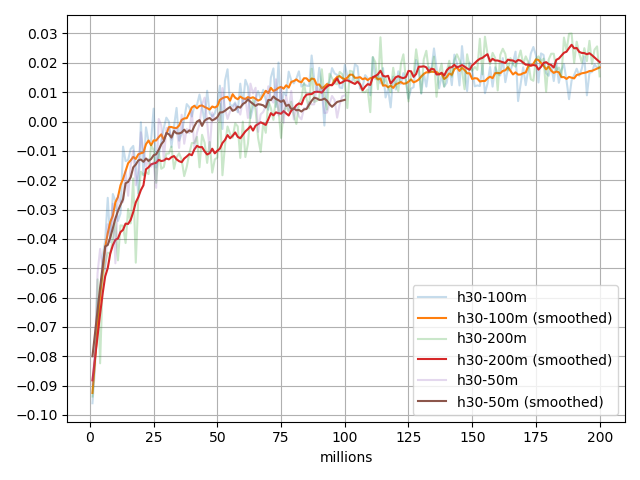
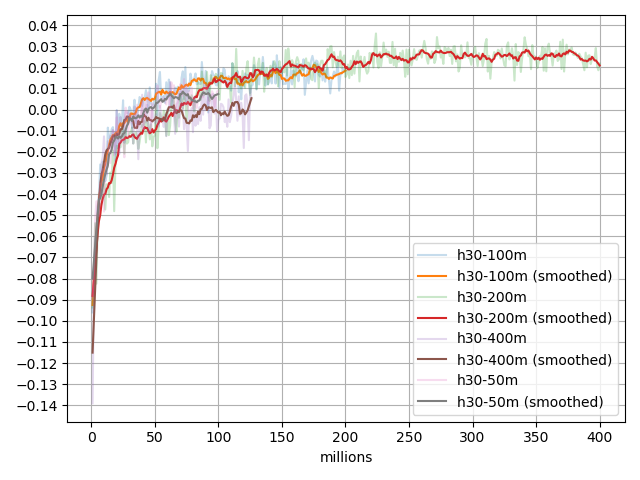
Update readme and plots.

diff --git a/readme.md b/readme.md
@@ -42,7 +42,7 @@ Comments about strength relate to fast play with no lookahead.
 Experiments
 -----------
 
-In these two experiments, lambda has been fixed at 0.85, and alpha starts at 0.001
+In these experiments, lambda has been fixed at 0.85, and alpha starts at 0.001
 and decays exponentially.  Halfway through each run, alpha has decayed
 by a factor of 20, to 5e-5, and by the end of the run alpha has decreased
 by a factor of 400, to 2.5e-6.
@@ -52,12 +52,22 @@ feature set as netv3, but differing in the number of hidden units as
 indicated.
 
 Every million training games a snapshot is taken, and a playoff of 100 thousand games
-is done against a fixed opponenet, drc.w.
+is done against a fixed opponenet, `drc.w`.
 
 The foreground plot has been smoothed by a Savitzky-Golay first-order filter of width 7, and
 the actual playoff scores are shown receded.
 
+Alpha decayed by a factor of 20 at 200 million games:
+
+![200 million](img/200m.png)
+
+Alpha decayed by a factor of 20 at 100 million games:
+
 ![100 million](img/100m.png)
+
+Alpha decayed by a factor of 20 at 50 million games:
+
+![50 million](img/50m.png)
 
 Given the typical variance of a single game in these nets (measured to
 be about 1.7), the standard error for a 100-thousand trial is about
@@ -86,23 +96,13 @@ h120-200m-200.w,  h60-200m-200.w, 1000000, 0.0277, 372616, 364886, 131111, 12142
 
 
 # It appears that h120-200m-300.w is slightly better than the others:
-
 h120-200m-400.w,           drc.w, 1000000, 0.111,    379693, 364271, 142518, 100772, 8403, 4343
 h120-200m-300.w,           drc.w, 1000000, 0.113,    380449, 365342, 141968, 99631,  8487, 4123
 h120-200m-400.w, h120-200m-300.w, 1000000, -0.00301, 369556, 368488, 125167, 126750, 4868, 5171
 
 h120-200m-400.w, h120-200m-200.w, 1000000, 0.00516,  368352, 363323, 128854, 129076, 5294, 5101
 h120-200m-300.w, h120-200m-200.w, 1000000, 0.00627,  369020, 364703, 128026, 128129, 5421, 4701
-
-
 ```
-
-This second plot shows the results for an experiment like the previous, but which concludes in
-half the number of games.  Lambda is the same 0.85, and the rate of exponential decay of the
-learning rate is such that it starts at 0.001 and still reaches 5e-5 at the halfway point, and
-2.5e-6 at the end:
-
-![50 million](img/50m.png)
 
 Plots by Network Size
 ---------------------
